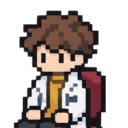
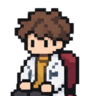
perf: 폰 대시보드가 받는 그림을 줄이고, 거기서 자동 새로고침을 끈다
오늘 대시보드에 올린 것들이 폰을 무겁게 하고 있었다.

1. 얼굴 아이콘 여섯 개를 128px 로 보내면서 화면에서는 48px 로 썼다. 96px 로 줄여
   143KB -> 75KB. 폰 대시보드는 이 여섯 개를 전부 받는다.

2. 연구소 칸이 대시보드에서도 30초마다 router.refresh() 를 돌고 있었다. 한 번 돌면
   달력·할 일·관계도까지 전부 다시 읽는다. 보드를 보고 있지도 않은데 폰이 계속
   일하게 되므로, 자동 새로고침은 연구소 화면(/lab)에서만 한다.

서버 쪽은 재 보니 범인이 아니었다 — 동적 경로 첫 바이트 165ms 로 일정(콜드 스타트
없음), 표는 전부 수십 행, requireUser() 는 JWT 를 그 자리에서 확인, JS 는 173KB.

diff --git a/src/features/lab/components/lab-room.tsx b/src/features/lab/components/lab-room.tsx
@@ -8,11 +8,11 @@ import { BOARD, firstLine, groupByState, openCount, STATE_LABEL, type LabTask, t
 import type { Researcher } from "../types";
 
 /**
- * 몇 초마다 서버에서 다시 읽어 올지 (연구원이 보드를 고치면 보고 있던 화면도 따라 바뀐다).
- * 보드를 보고 있을 때(연구소 화면)는 5초, 대시보드에서는 30초 — 대시보드는 한 번 읽을 때
- * 달력·할 일·기록까지 전부 다시 읽으므로 자주 할 일이 아니다.
+ * 보드를 보고 있는 동안 5초마다 다시 읽는다 (연구원이 상태를 바꾸면 화면도 따라 바뀐다).
+ * 대시보드에서는 아예 하지 않는다 — 거기서 한 번 다시 읽으면 달력·할 일·관계도까지 전부
+ * 다시 읽어서, 보고 있지도 않은 보드 때문에 폰이 계속 일하게 된다.
  */
-const REFRESH_MS = { board: 5000, widget: 30000 };
+const REFRESH_MS = 5000;
 
 const NEXT: Partial<Record<TaskState, TaskState>> = { queued: "running", running: "review", review: "done" };
 
@@ -30,11 +30,12 @@ export function LabRoom({ tasks, board: showBoard = true }: { tasks: LabTask[]; 
   const [busy, start] = useTransition();
   const box = useRef<HTMLTextAreaElement>(null);
 
-  // 보고 있는 동안만 조용히 다시 읽는다 (탭을 가려 두면 쉰다)
+  // 보드를 보고 있는 동안만 조용히 다시 읽는다 (탭을 가려 두면 쉰다)
   useEffect(() => {
+    if (!showBoard) return;
     const t = setInterval(() => {
       if (document.visibilityState === "visible") router.refresh();
-    }, showBoard ? REFRESH_MS.board : REFRESH_MS.widget);
+    }, REFRESH_MS);
     return () => clearInterval(t);
   }, [router, showBoard]);
 
